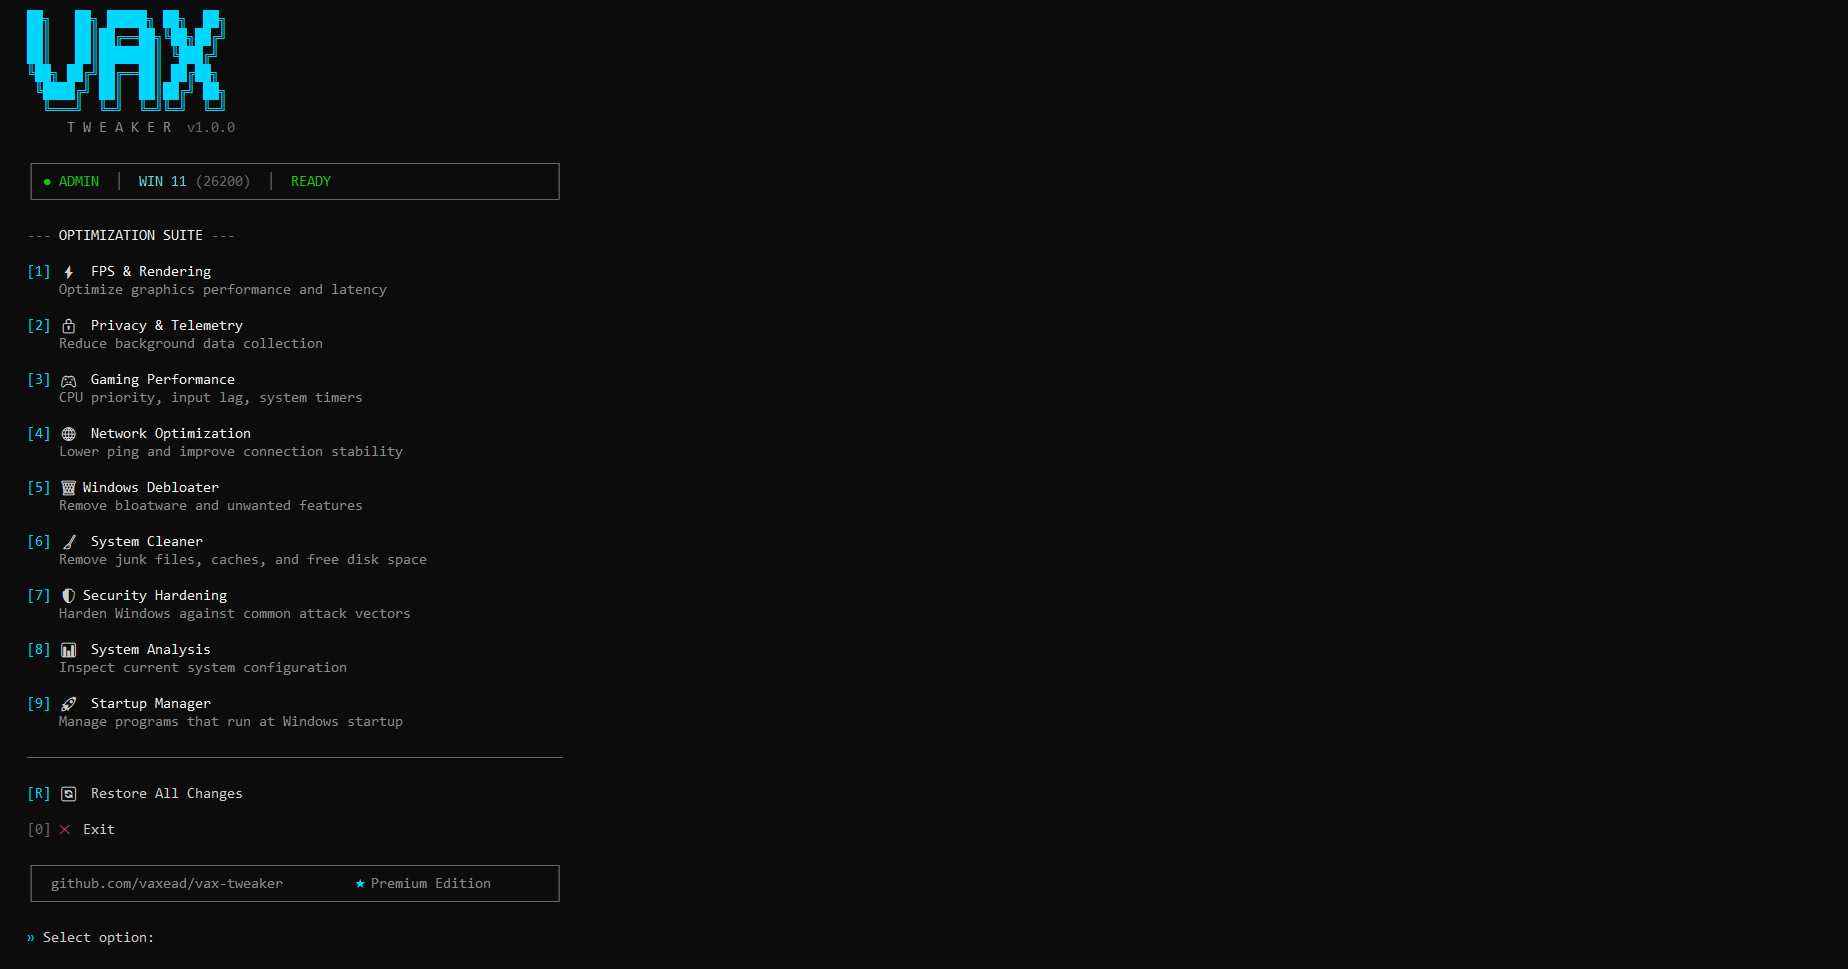
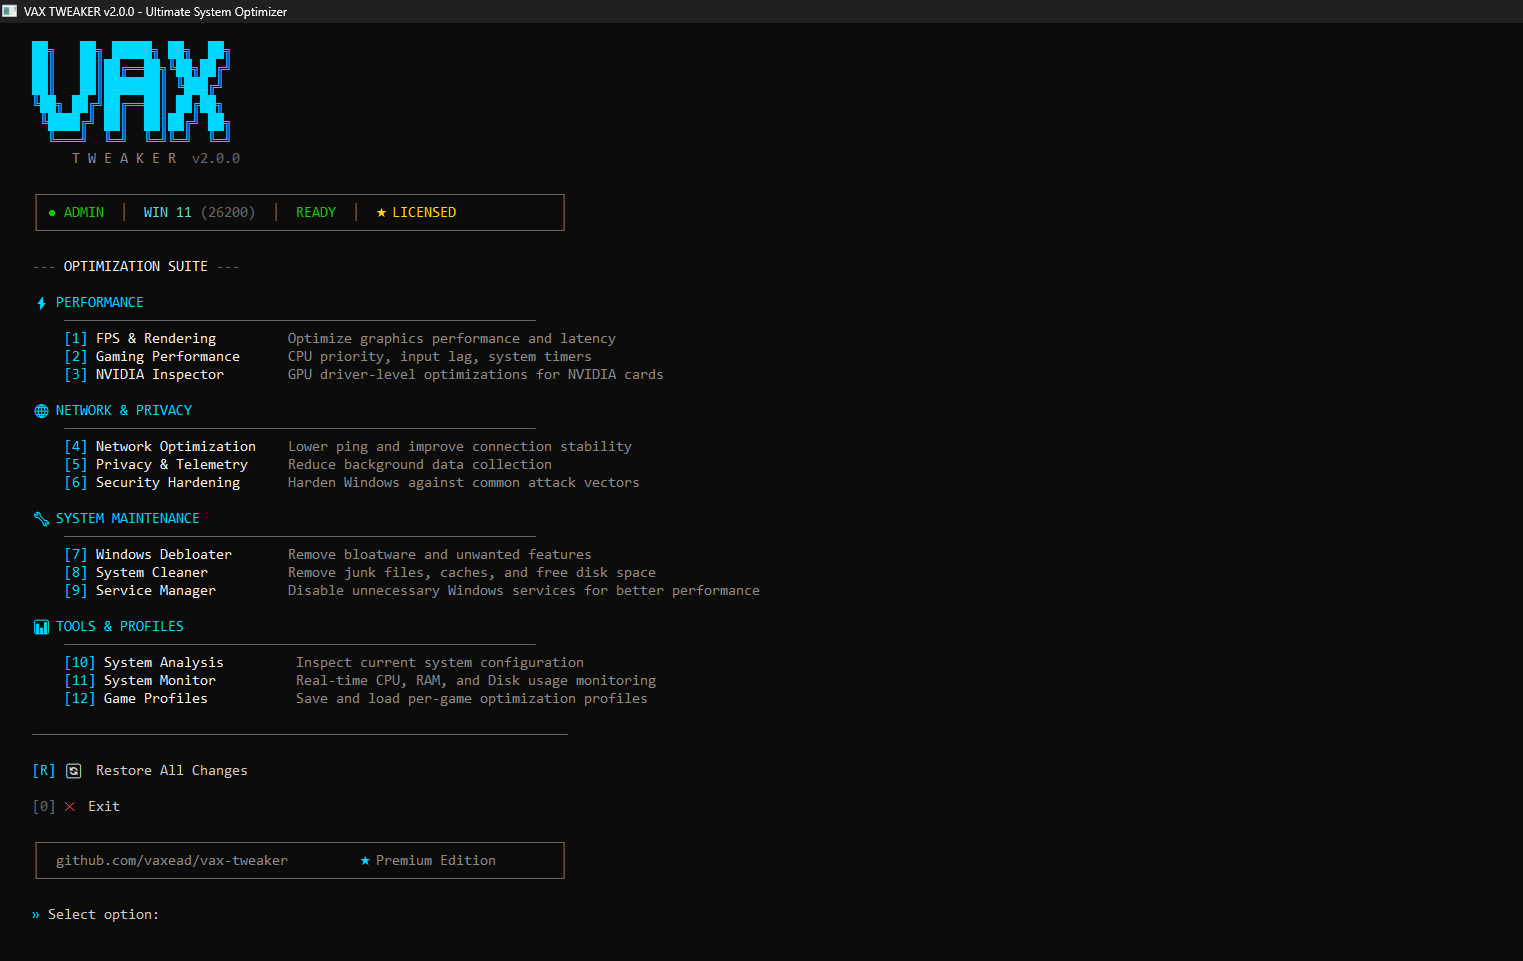
v2.0.0: 276 tweaks, machine-bound licensing, new Privacy/Debloater/Security groups

Changed region(s): [[0.0, 0.0, 0.4938, 0.7492], [0.0, 0.7804, 0.1852, 0.999], [0.1852, 0.8741, 0.3395, 0.9365]]

diff --git a/README.md b/README.md
@@ -4,7 +4,7 @@
 
 ### Ultimate Windows System Optimizer
 
-[![Version](https://img.shields.io/badge/version-1.0.0-00d4aa?style=for-the-badge)](https://github.com/vaxead/vax-tweaker/releases)
+[![Version](https://img.shields.io/badge/version-2.0.0-00d4aa?style=for-the-badge)](https://github.com/vaxead/vax-tweaker/releases)
 [![Platform](https://img.shields.io/badge/platform-Windows%2010%20%7C%2011-0078d4?style=for-the-badge&logo=windows)](https://github.com/vaxead/vax-tweaker)
 [![Architecture](https://img.shields.io/badge/arch-x64-333333?style=for-the-badge)](https://github.com/vaxead/vax-tweaker)
 [![License](https://img.shields.io/badge/license-Proprietary-ff4444?style=for-the-badge)](LICENSE)
@@ -42,12 +42,12 @@ Unlike bloated "optimizer" software, VAX TWEAKER:
 | # | Module | Description |
 |---|--------|-------------|
 | ⚡ | **FPS & Rendering** | Fullscreen optimizations, GPU scheduling, visual effects, Game Bar, DWM tuning, power plans |
-| 🔒 | **Privacy & Telemetry** | 34 tweaks across telemetry, Cortana, Copilot, Recall, activity tracking, device permissions |
+| 🔒 | **Privacy & Telemetry** | 62 tweaks across telemetry, Cortana, Copilot, Recall, activity tracking, device permissions, third-party telemetry |
 | 🎮 | **Gaming Performance** | CPU priority, system timers, HPET, MMCSS, service optimization, memory management |
 | 🌐 | **Network Optimization** | Nagle's algorithm, TCP tuning, DNS configuration, NIC adapter settings, latency reduction |
-| 🧹 | **Windows Debloater** | Remove bloatware, disable widgets, tips, suggestions, pre-installed apps |
+| 🧹 | **Windows Debloater** | Remove bloatware, disable widgets, tips, suggestions, pre-installed apps, Windows Update controls, Insider/experiments |
 | 🧽 | **System Cleaner** | 25 cleaning targets — temp files, caches, logs, crash dumps, browser data, Steam cache |
-| 🛡 | **Security Hardening** | Disable RDP, SMBv1, admin shares, harden UAC, disable PowerShell v2 engine |
+| 🛡 | **Security Hardening** | Disable RDP, SMBv1, admin shares, harden UAC, disable PowerShell v2 engine, browser security policies |
 | 📊 | **System Analysis** | Full hardware/software diagnostic scan with GPU, driver, runtime, and network details |
 | 🚀 | **Startup Manager** | Enumerate, inspect, enable/disable startup programs across HKCU and HKLM |
 
@@ -151,6 +151,14 @@ VAX TWEAKER is proprietary software. The source code is not publicly available. 
 ---
 
 ## 📋 Changelog
+
+### v2.0.0 — Major Update
+- **276 total tweaks** across 9 modules (+30 new tweaks)
+- **Privacy**: 62 tweaks — new Extended Telemetry Controls, Sensor & Location, Third-Party Telemetry (NVIDIA, VS, Edge, Office)
+- **Privacy**: Full ConsentStore coverage — Videos, Email, Tasks, Messaging, Broad Filesystem, Motion Data
+- **Debloater**: 31 tweaks — new Windows Update Controls, Insider/Experiments, Compatibility & Diagnostics groups
+- **Security**: 13 tweaks — new Browser Security group (Edge hardening, Chrome Reporter, Firefox Agent)
+- All new tweaks are fully reversible with data-driven apply/revert/status detection
 
 ### v1.0.0 — Initial Release
 - 9 optimization modules with 100+ tweaks
